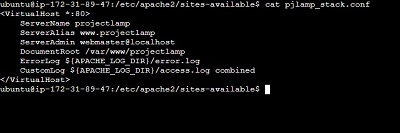
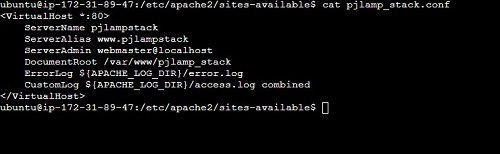
Updated documentation and images

Changed region(s): [[0.0, 0.0, 0.93, 0.7519]]

diff --git a/PROJECT3/Project3.md b/PROJECT3/Project3.md
@@ -284,7 +284,7 @@ Now that all the components of the LAMP Stack have been installed, we can test t
 
 1. Set up a domain
 
-The first thing to do is set up a domain. For this project I'll be creating the domain `pjlamp_stack` alongside the custom web root folder `html` in `/var/www/`.
+The first thing to do is set up a domain. For this project I'll be creating a domain `pjlamp_stack` alongside the custom web root folder `html` in `/var/www/`.
 
 ![Alt text](Images/virtual_host_folder.jpg)
 
@@ -303,6 +303,36 @@ The first thing to do is set up a domain. For this project I'll be creating the 
 ![Alt text](Images/virtual_host_conf_details1.jpg)
 
 ![Alt text](Images/virtual_host_conf_details2.jpg)
+
+5. Use `a2ensite` command to enable the new virtual host
+
+![Alt text](Images/virtual_host_activation.jpg)
+
+6. Disable the default website that comes installed with Apache to prevent Apache's default configuration from overwrite the virtual host. The command to use is `a2dissite`
+
+![Alt text](Images/apache_default_site_disable.jpg)
+
+7. Ensure that the configuration file does not contain errors by running the command `sudo apache2ctl configtest`
+
+![Alt text](Images/virtual_host_configtest.jpg)
+
+8. Reload Apache so the changes can take effect by running the command `sudo systemctl reload apache2`
+
+![Alt text](Images/reload_apache2.jpg)
+
+9. The new website is now active, but we'll need to create an index.html file in the project root folder `/var/www/pjlamp_stack` to verify that the virtual host works
+
+![Alt text](Images/populate_indexhtml.jpg)
+
+10. Reload the Apache service, then visit the website URL from a browser with the command `http://<Public-IP-Address>:80` using the public IP address of the web server.
+
+![Alt text](Images/webpage_test.jpg)
+
+![Alt text](Images/webpage_test1.jpg)
+
+![Alt text](Images/webpage_test2.jpg)
+
+
 
 
 
